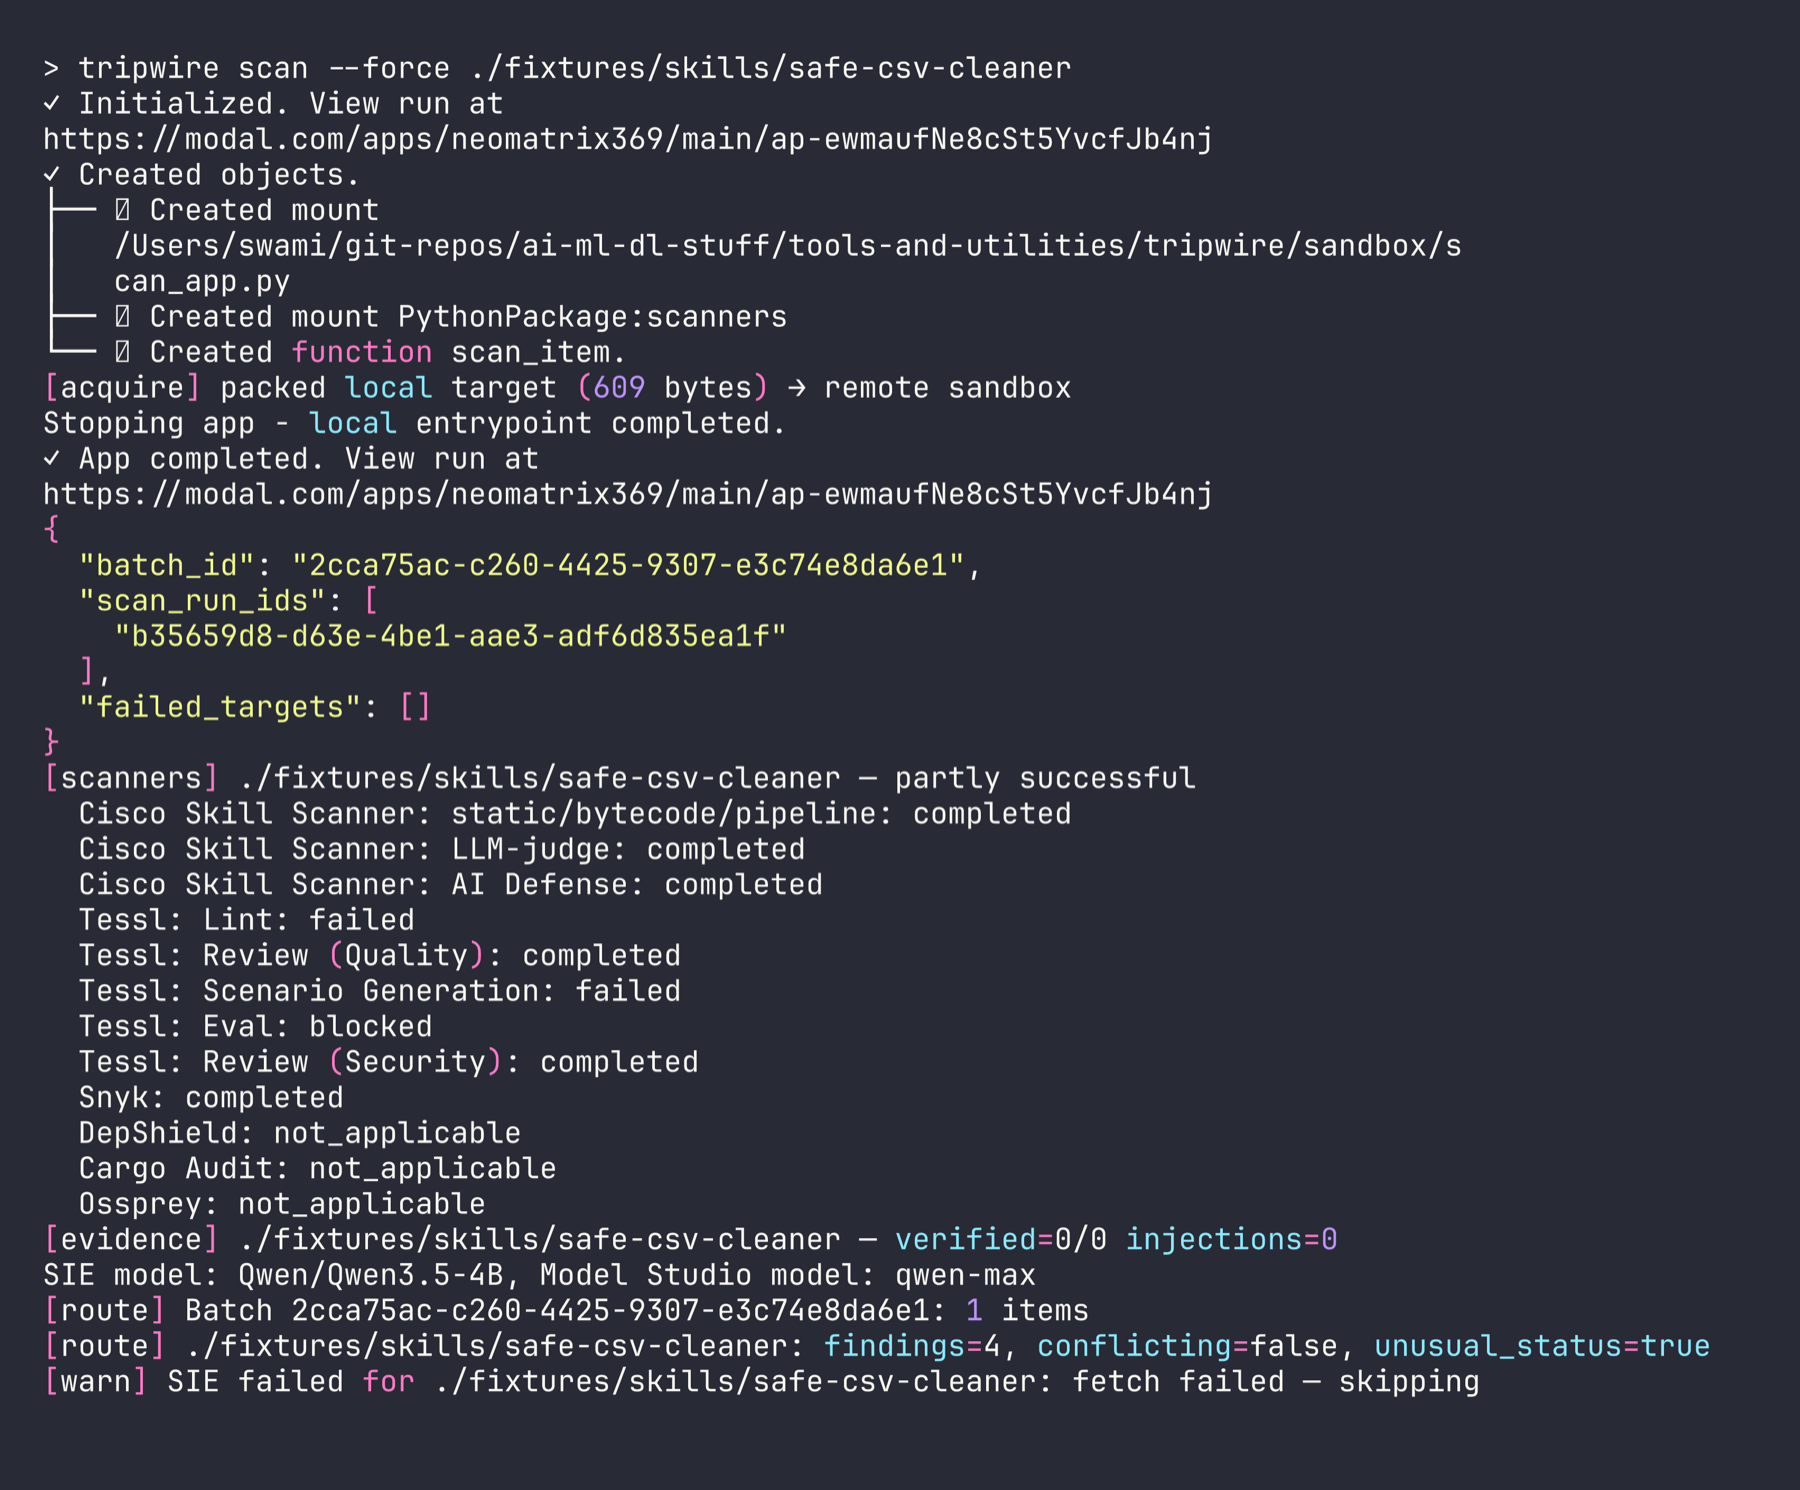
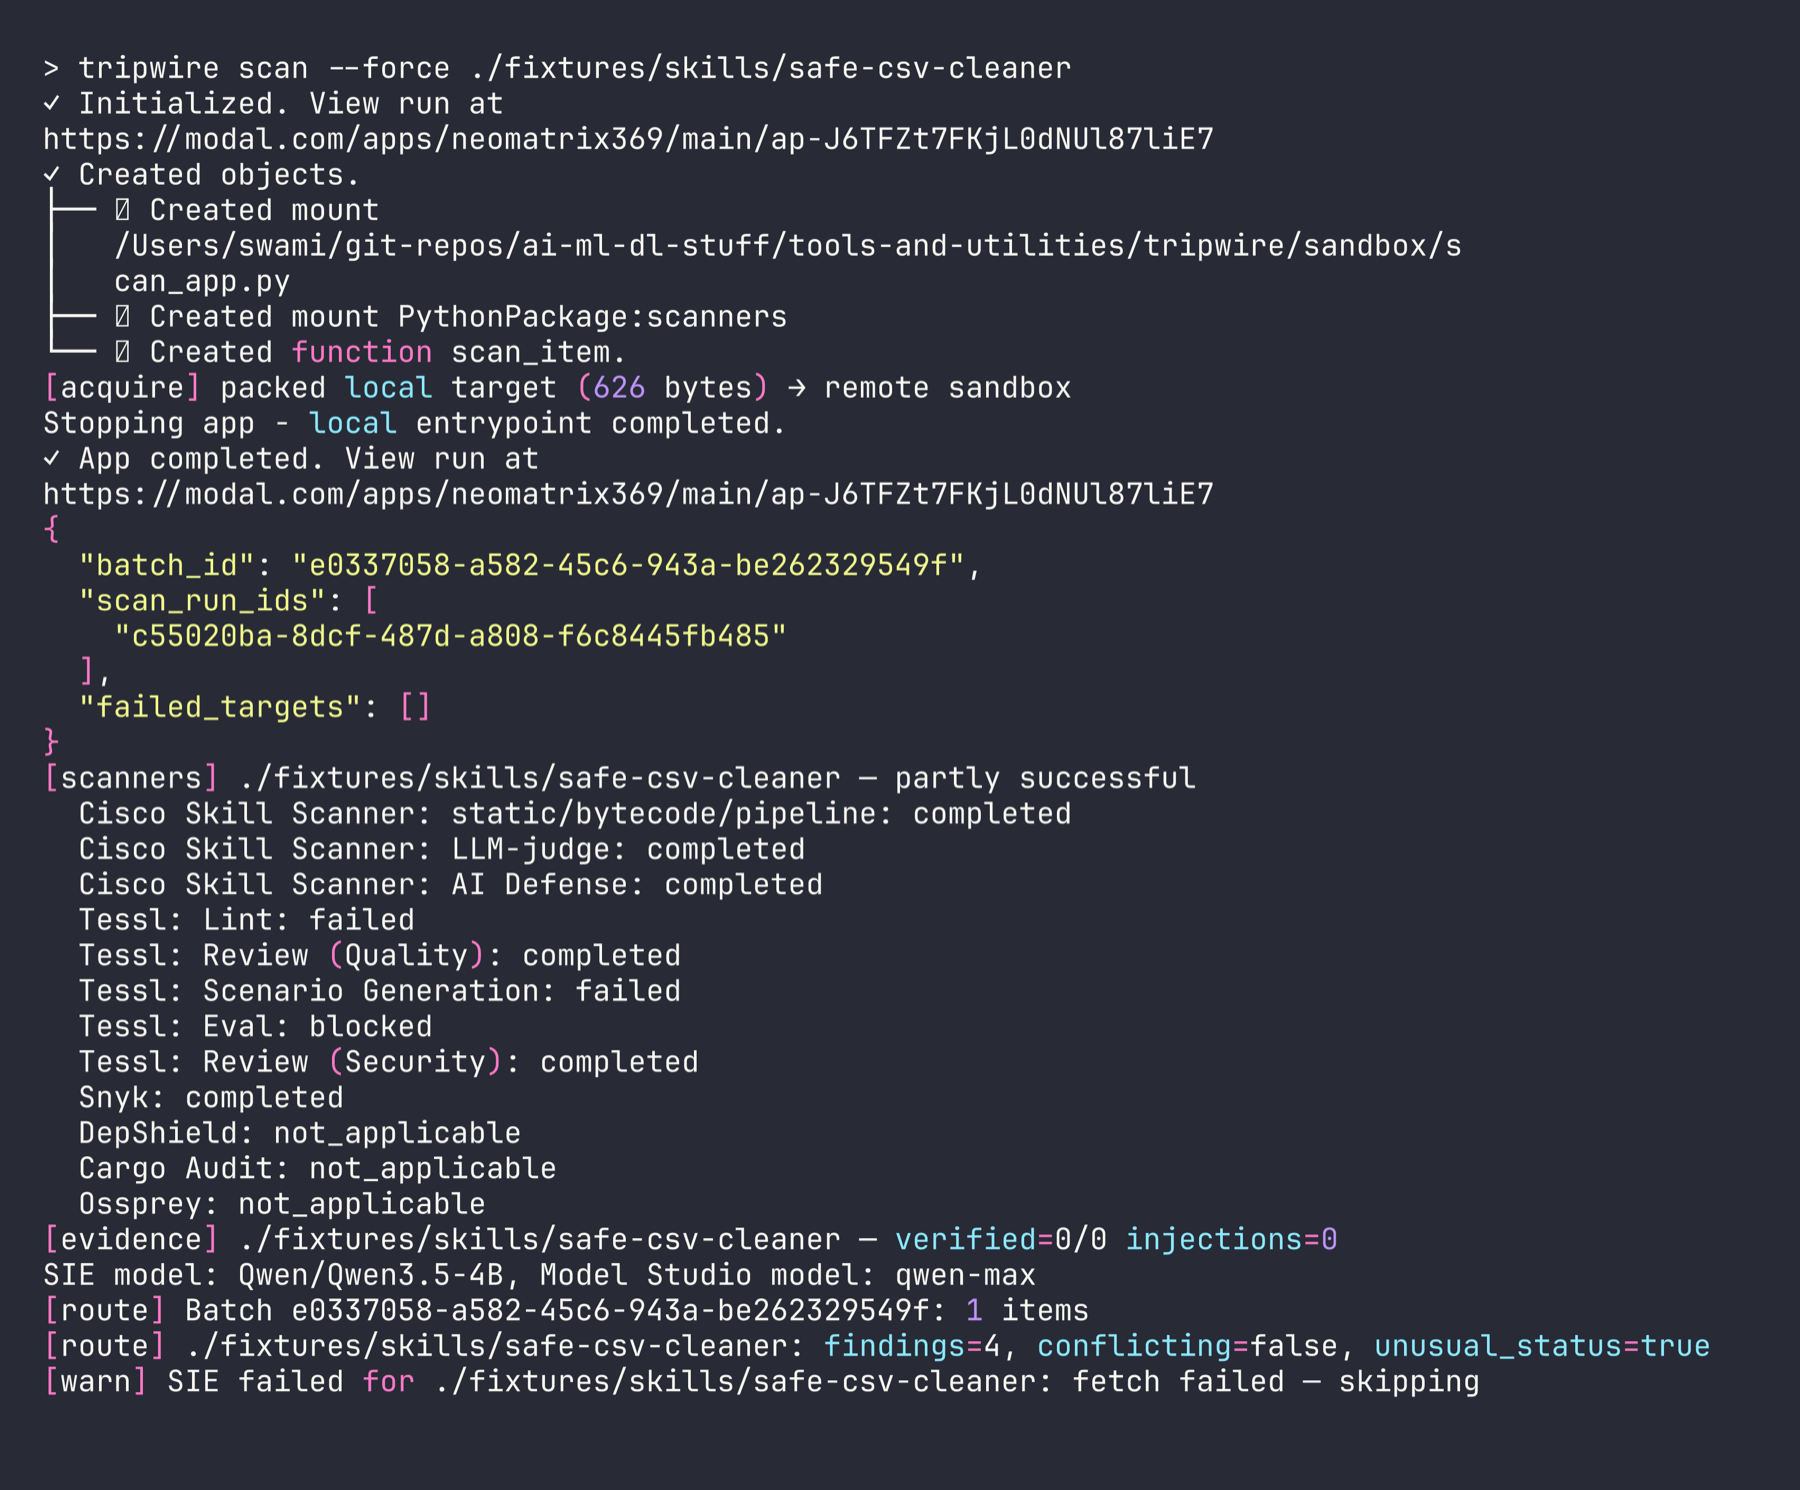
docs(screenshots): add Workflow gallery shots after rebase onto main
Capture Run/Triage/Verify PNGs and sync README/hub pointers so the gallery matches current chrome.

diff --git a/README.md b/README.md
@@ -189,7 +189,7 @@ remembered in `sessionStorage`.
 
 > **Visual identity v2:** cream paper, tan primary CTA, and AA-readable ink tokens
 > (Fraunces display headings) — shipped via [PR #96](https://github.com/neomatrix369/tripwire/pull/96).
-> Screenshots in [docs/screenshots/](docs/screenshots/README.md) regenerated 2026-09-20.
+> Screenshots in [docs/screenshots/](docs/screenshots/README.md) regenerated 2026-09-21.
 
 After installing the CLI, you can also validate target discovery locally without
 accounts or a scan:
@@ -245,10 +245,10 @@ How to read strips and filters after Route:
     <sub><b>Dashboard</b> — Mock overview</sub>
   </td>
   <td align="center" width="20%">
-    <a href="docs/screenshots/02-dashboard/14-filter-escalated.png">
-      <img src="docs/screenshots/02-dashboard/14-filter-escalated.png" width="100%" alt="Dashboard Escalated filter (Mock)">
+    <a href="docs/screenshots/05-workflow/18-workflow-run.png">
+      <img src="docs/screenshots/05-workflow/18-workflow-run.png" width="100%" alt="Workflow Run step (Mock)">
     </a>
-    <sub><b>Router</b> — Escalated (Mock)</sub>
+    <sub><b>Workflow</b> — Run (Mock)</sub>
   </td>
   <td align="center" width="20%">
     <a href="docs/screenshots/03-skills/04-red-skill-detail-vuln-prompt-injection.png">
@@ -265,7 +265,7 @@ How to read strips and filters after Route:
 </tr>
 </table>
 
-> Full gallery (SIE-only, severity filters, list view) → [docs/screenshots/](docs/screenshots/README.md)
+> Full gallery (Escalated / SIE-only, Workflow Triage/Verify, severity filters, list view) → [docs/screenshots/](docs/screenshots/README.md)
 
 ## Find the right guide
 
@@ -280,7 +280,7 @@ How to read strips and filters after Route:
 | Preview Mock UI or dry-discover locally | [Optional local validation](QUICKSTART.md#validate-locally-optional) |
 | Enable SIE / Model Studio routing | [SIE setup](docs/user-guide/sie-setup.md) · [Model Studio setup](docs/user-guide/model-studio-setup.md) · [`tripwire route`](docs/user-guide/setup-commands.md#tiered-router-optional) |
 | Interpret pathway strips / Escalated / SIE-only | [Reading router results](docs/user-guide/reading-router-results.md) |
-| Browse CLI / dashboard screenshots | [Screenshot gallery](docs/screenshots/README.md) |
+| Browse CLI / dashboard / Workflow screenshots | [Screenshot gallery](docs/screenshots/README.md) |
 | Smoke-test SIE or Model Studio alone | [SIE sample CLI](prototypes/sie-studio/README.md) · [Model Studio sample CLI](prototypes/model-studio/README.md) |
 | Understand results and system shape | [Capability status](docs/STATUS.md) · [Architecture](docs/ARCHITECTURE.md) · [ADRs](docs/adr/README.md) |
 | Contribute or maintain | [Contributing](CONTRIBUTING.md) · [command catalog](docs/user-guide/setup-commands.md) |

diff --git a/docs/screenshots/README.md b/docs/screenshots/README.md
@@ -2,18 +2,18 @@
 
 Product UI and CLI captures, grouped by surface. Paths are relative to this folder.
 
-**Dashboard, skill, and MCP shots use Mock (demo data)** so Red / Amber / Green
-and Escalated / SIE-only examples stay stable. **CLI shots are live terminal
-captures** from the current CLI.
+**Dashboard, skill, MCP, and Workflow shots use Mock (demo data)** so Red /
+Amber / Green, Escalated / SIE-only, and Run→Report examples stay stable.
+**CLI shots are live terminal captures** from the current CLI.
 
 **Try the UI without cloning:** [hosted dashboard](https://neomatrix369.github.io/demos/tripwire-dashboard/) (Mock on GitHub Pages) · [demo walkthrough video](https://youtu.be/omGOw9ruN3Y).
 
 Skill cards show compact **`R`** (risk density) and **`Q`** (Tessl quality)
 badges; card colour is worst-of finding status — **colour ≠ density**.
 
-> **Note (2026-09-20):** Gallery PNGs regenerated from Mock demo data on current
-> `main` chrome (Workflow tab, quality floors, R/Q badges, pathway strips). CLI
-> shots include `judge` / `setup-agent-hooks` / `status`. Re-run after further
+> **Note (2026-09-21):** Gallery PNGs regenerated after rebase onto `main`
+> (Workflow Run/Triage/Verify steps, quality floors, R/Q badges, pathway strips).
+> CLI shots include `judge` / `setup-agent-hooks` / `status`. Re-run after further
 > chrome changes.
 
 Regenerate frontend shots with:
@@ -129,3 +129,22 @@ Drill-down detail for MCP server findings by heatmap severity.
 ### Green — safe time server
 
 ![Green MCP detail: safe-time-server](04-mcp-servers/12-green-mcp-detail-safe-time-server.png)
+
+---
+
+## 5. Workflow
+
+Run → Triage → Investigate → Fix → Verify → Report chrome (Mock). Stepper shows
+configured default model aliases; panels show scanner / judge / verify state.
+
+### Run
+
+![Workflow Run step](05-workflow/18-workflow-run.png)
+
+### Triage
+
+![Workflow Triage step](05-workflow/19-workflow-triage.png)
+
+### Verify
+
+![Workflow Verify step](05-workflow/20-workflow-verify.png)

diff --git a/docs/README.md b/docs/README.md
@@ -43,7 +43,7 @@ Start here: [QUICKSTART](../QUICKSTART.md) · Repo entry: [README](../README.md)
 | [STATUS.md](./STATUS.md) | Evidence-labelled capability claims |
 | [ARCHITECTURE.md](./ARCHITECTURE.md) | Services inventory, C4, operator journey + dependency diagrams, key flows |
 | [adr/README.md](./adr/README.md) | Formal architecture decision records |
-| [screenshots/](./screenshots/README.md) | CLI + dashboard gallery |
+| [screenshots/](./screenshots/README.md) | CLI + dashboard + Workflow gallery |
 | [agent-hooks/README.md](../agent-hooks/README.md) | Claude Code hooks + `/tw-*` skills |
 | [SECURITY.md](../SECURITY.md) | Vulnerability reporting |
 

diff --git a/CHANGELOG.md b/CHANGELOG.md
@@ -8,9 +8,9 @@ and this project adheres to [Semantic Versioning](https://semver.org/spec/v2.0.0
 ## [Unreleased]
 
 ### Docs
-- Screenshot gallery regenerated 2026-09-20: Mock UI (Workflow tab, quality
-  floors, R/Q badges, pathway strips) + live CLI (`judge` / hooks / `status`);
-  capture script switches Quality < 80 for Red/Amber skill fixtures
+- Screenshot gallery regenerated 2026-09-21 (post-rebase onto `main`): Mock
+  Dashboard + new Workflow Run/Triage/Verify shots, quality floors, R/Q badges;
+  live CLI scan refresh; capture script covers `05-workflow/`
 
 ### Fixed
 - Workflow L→R smoke FAIL/PARTIAL (slice 77, on

diff --git a/docs/user-guide/reading-router-results.md b/docs/user-guide/reading-router-results.md
@@ -96,7 +96,8 @@ Same `severity` column, different meaning by `category`:
 1. Mock dashboard already includes `tiered_router` fixtures — open
    [http://127.0.0.1:8765/Tripwire.dc.html](http://127.0.0.1:8765/Tripwire.dc.html)
    with `node scripts/serve-dashboard.mjs` and toggle **Escalated** / **SIE-only**.
-2. Gallery shots: [screenshots README](../screenshots/README.md) (router section).
+2. Gallery shots: [screenshots README](../screenshots/README.md)
+   (dashboard router filters + Workflow Run/Triage/Verify).
 3. Live conflict / timeout fixtures (needs Supabase `.env`):
 
 ```bash
